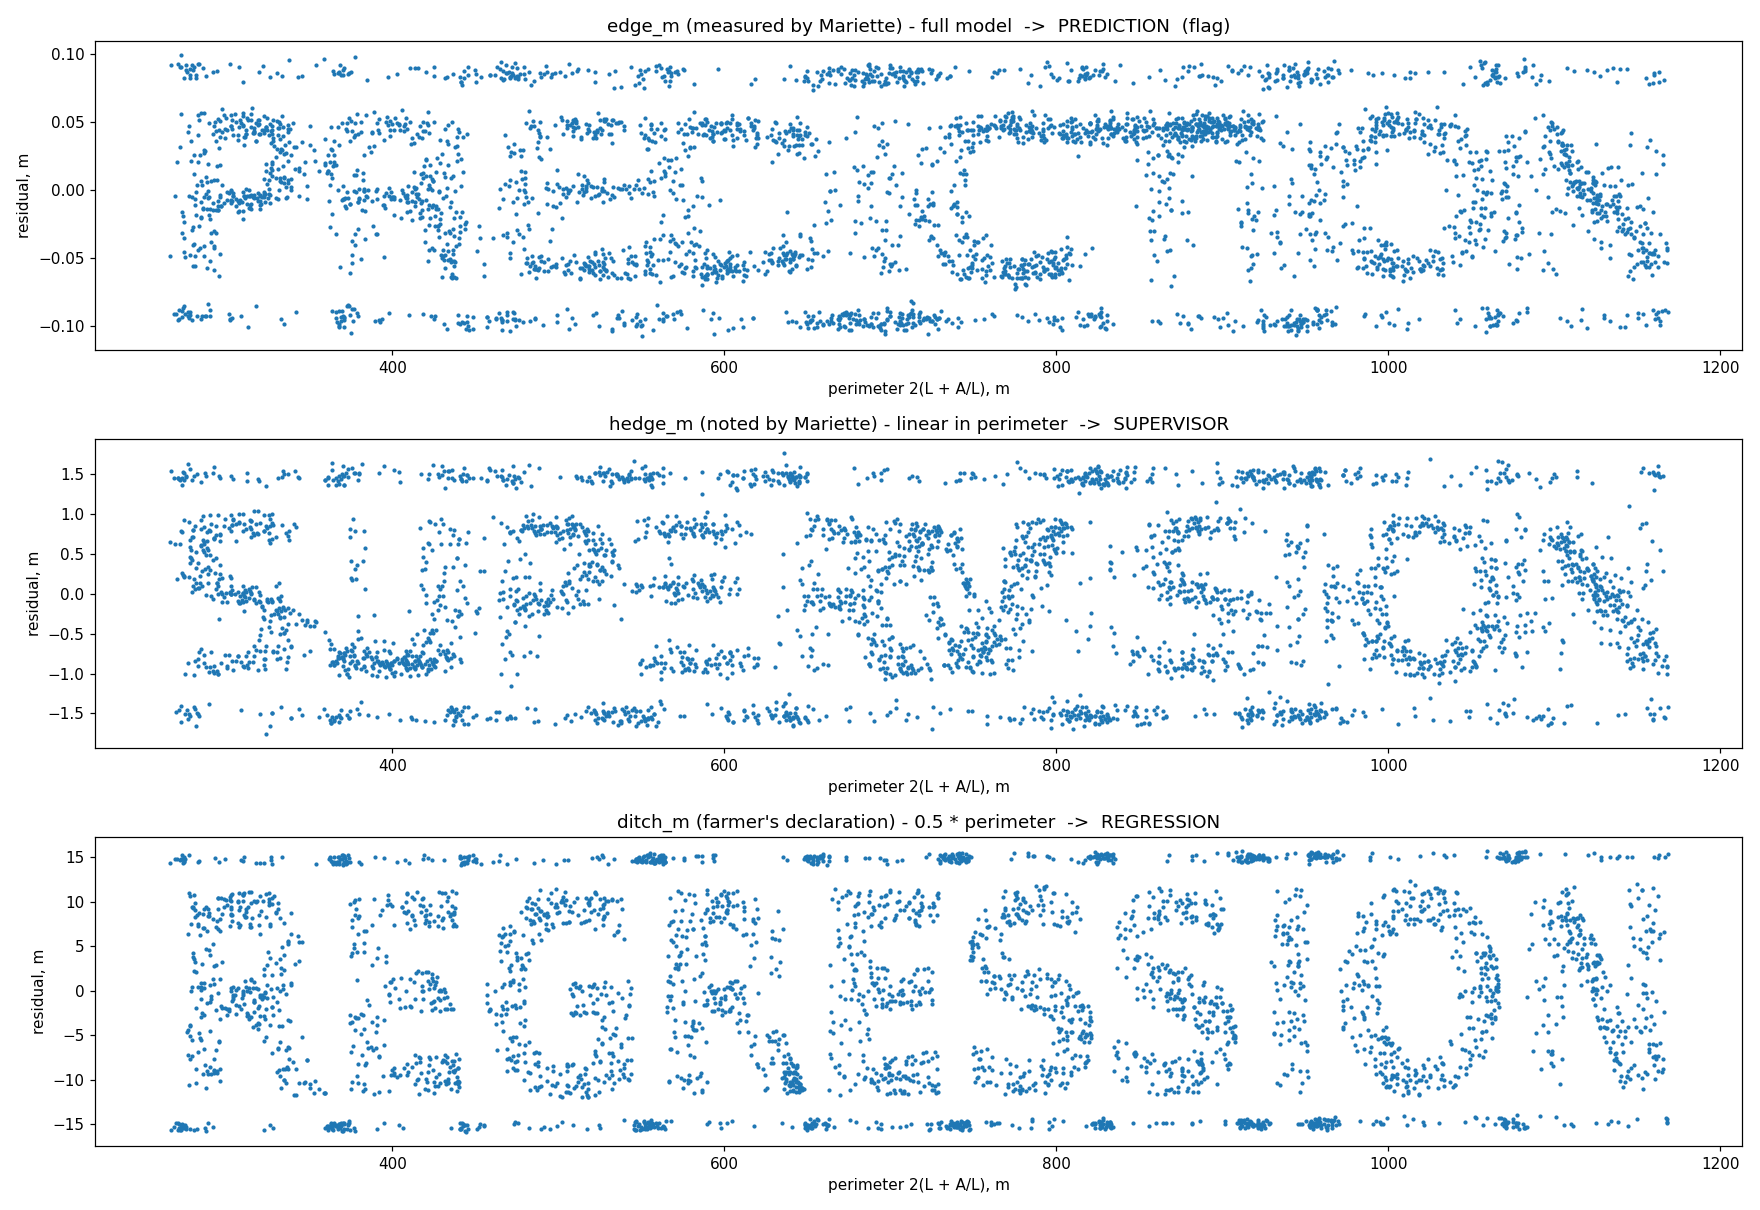
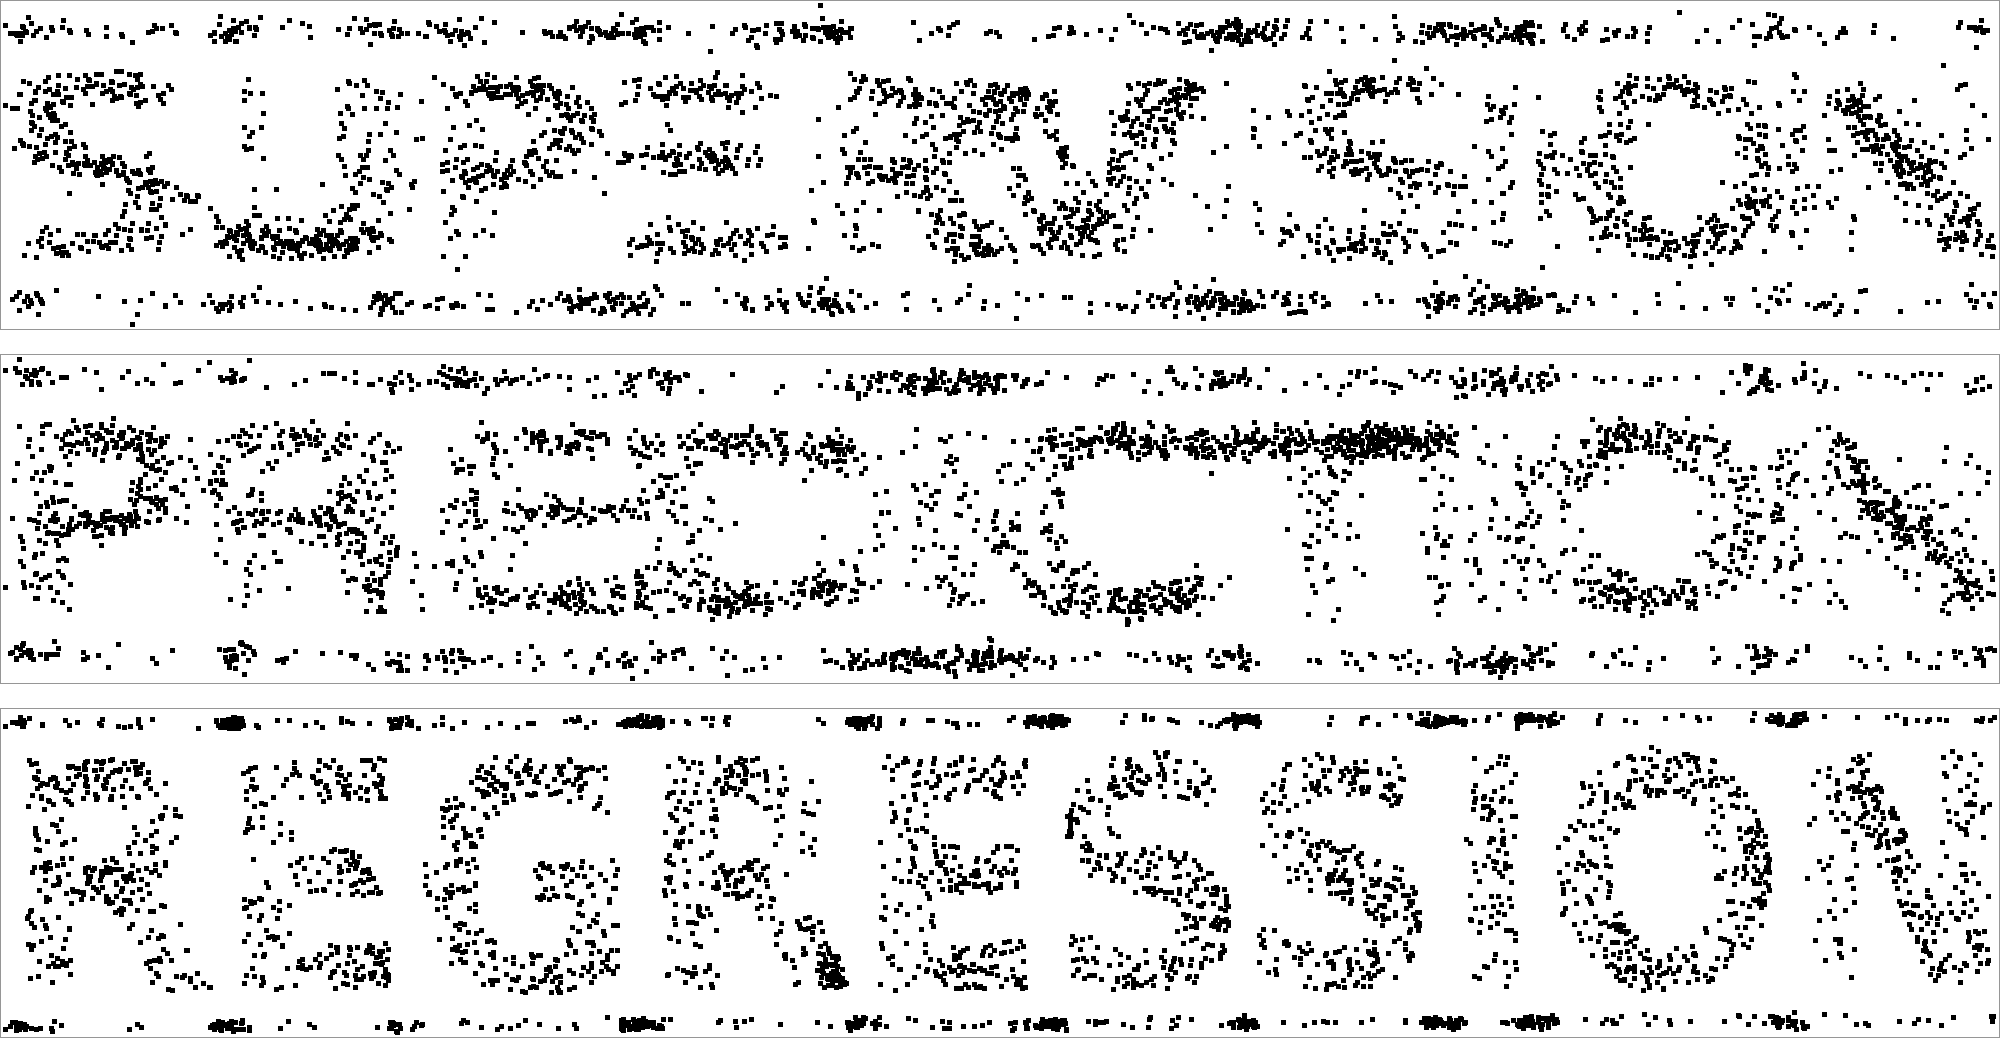
belgium: flag is SUPERVISION (hedge_m, Mariette's on-site notes); new figure

diff --git a/belgium/solve.py b/belgium/solve.py
@@ -20,11 +20,11 @@ r_hedge = ols(d.hedge_m, ["perimeter", "ditch_m"])
 r_ditch = ols(d.ditch_m, ["perimeter"])
 
 fig, ax = plt.subplots(3, 1, figsize=(16, 11))
-for a, r, title in [(ax[0], r_edge, "edge_m (measured by Mariette) - full model  ->  PREDICTION  (flag)"),
-                    (ax[1], r_hedge, "hedge_m (noted by Mariette) - linear in perimeter  ->  SUPERVISOR"),
+for a, r, title in [(ax[0], r_hedge, "hedge_m (noted by Mariette on site) - linear model  ->  SUPERVISION  (flag)"),
+                    (ax[1], r_edge, "edge_m (measured by Mariette) - full model  ->  PREDICTION"),
                     (ax[2], r_ditch, "ditch_m (farmer's declaration) - 0.5 * perimeter  ->  REGRESSION")]:
     a.scatter(d.perimeter, r, s=3)
     a.set_title(title); a.set_xlabel("perimeter 2(L + A/L), m"); a.set_ylabel("residual, m")
 fig.tight_layout()
 fig.savefig(HERE / "fry_ndship.png", dpi=110)
-print("saved fry_ndship.png  ->  SIGMOID_PREDICTION")
+print("saved fry_ndship.png  ->  SIGMOID_SUPERVISION")

diff --git a/belgium/README.md b/belgium/README.md
@@ -1,22 +1,28 @@
 # Fry-ndship (Belgium)
 
-**Flag: `SIGMOID_PREDICTION`**
+**Flag: `SIGMOID_SUPERVISION`**
 
-![residuals](fry_ndship.png)
+![residuals: hedge, edge, ditch](fry_ndship.png)
+
+Panels from top to bottom: `hedge_m` → **SUPERVISION**, `edge_m` → PREDICTION, `ditch_m` → REGRESSION.
+The x-axis is the field's geometric perimeter and the y-axis is the residual of each column's linear model.
 
 ## How it was found
 1. A field's edge is its geometric perimeter plus its ditch and hedge. For a rectangle,
    `P = 2 * (long_side + area / long_side)` with `area = area_ha * 1e4`.
    Fitting `edge_m ~ 0.41 * P + 1.00 * ditch_m + 1.00 * hedge_m` gives a residual sd of only 0.05 m.
-2. Each column hides a word in its noise. Plotting the residual against the perimeter makes it readable:
-   - `ditch_m` (the farmer's declaration) minus `0.5 * P` spells **REGRESSION**;
-   - `hedge_m` (noted by Mariette) minus a linear term in `P` spells **SUPERVISOR**;
-   - `edge_m` (measured by Mariette) minus the full linear model spells **PREDICTION**.
-3. The flag is the word in Mariette's own measurements: **PREDICTION**.
+   This is why the analyst's model "explains 99%".
+2. The fields in the survey were picked so that each column's residual, plotted against the perimeter, spells a word:
+   - `ditch_m` (the farmer's declaration), residual of a linear fit on `P`: **REGRESSION**;
+   - `edge_m` (measured by Mariette), residual of the full model: **PREDICTION**;
+   - `hedge_m` (**noted by Mariette on site**, i.e. her observations), residual of a linear fit on `P` and `ditch_m`:
+     **SUPERVISION**.
+3. The flag asks for "the observations Mariette did on data". The column the task marks as Mariette's on-site notes is
+   `hedge_m`, so the word is **SUPERVISION**.
 
 ## Run
 Put `potato_fields.csv` from the task next to `solve.py`.
 ```
 pip install numpy pandas matplotlib
-python belgium/solve.py      # prints the fits and writes fry_ndship.png
+python belgium/solve.py      # prints the three fits and writes fry_ndship.png
 ```
